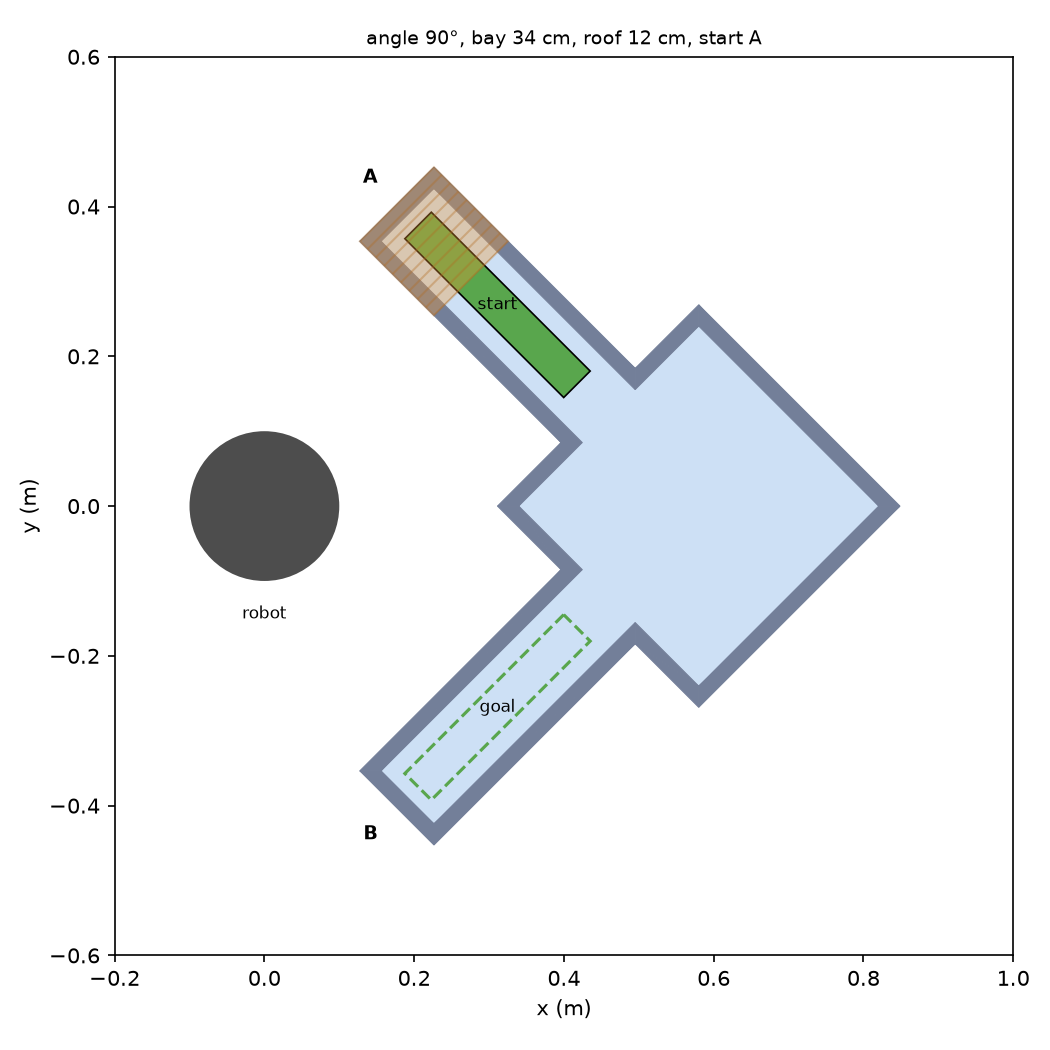
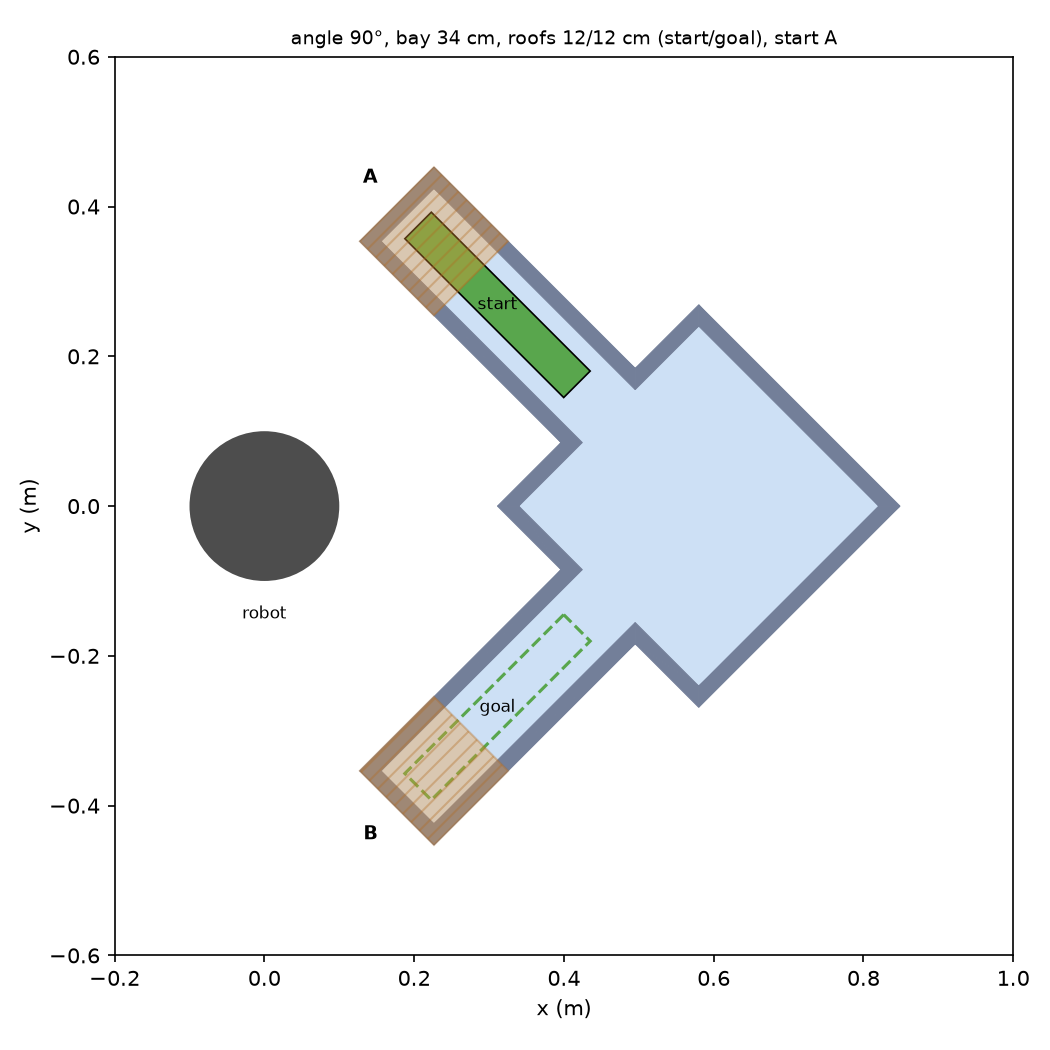
Add a randomized roof over the goal pocket
The goal corridor's dead end now gets its own roof, like the start
pocket. Its length is drawn independently of the start roof, with the
same limit: at least 10 cm of the block always stays uncovered so a
grasp is possible when setting the block down.

Changed region(s): [[0.3352, 0.6705, 0.4876, 0.8229], [0.2743, 0.0305, 0.7924, 0.061]]

diff --git a/environment/environment_params.py b/environment/environment_params.py
@@ -11,7 +11,7 @@ by a square "bay" at the corner. Seen from above:
 
                  corridor B
        dead end ┌──────────────────┬──────────┐
-                │  (block goal)        bay    │
+                │░░░░░ (block goal)    bay    │
                 └──────────────────┐          │
                                    └──┐    ┌──┘
                                       │    │
@@ -69,11 +69,13 @@ class EnvironmentParams:
     wall_height: float = 0.08
     wall_thickness: float = 0.02
 
-    # How much of the START corridor is covered by a roof, measured from its
-    # dead end. The roof sits on top of the walls, so the gripper cannot
-    # reach the part of the block underneath it. This limits which grasps
-    # are possible at the start. 0 means no roof.
+    # How much of the START and GOAL corridors is covered by a roof, measured
+    # from each corridor's dead end. A roof sits on top of the walls, so the
+    # gripper cannot reach the part of the block underneath it. This limits
+    # which grasps are possible when picking the block up at the start and
+    # when setting it down at the goal. 0 means no roof.
     start_roof_length: float = 0.12
+    goal_roof_length: float = 0.12
     roof_thickness: float = 0.01
 
     # ------------------------------------------------------------------
@@ -93,7 +95,7 @@ class EnvironmentParams:
     # just lift the block out of the corridor.
     max_block_lift: float = 0.02
 
-    # The roof must leave at least this much of the block uncovered so that
+    # Each roof must leave at least this much of the block uncovered so that
     # some grasp is always possible. (The WSG palm is 7.25 cm long in this
     # direction, plus some margin.)
     min_uncovered_block_length: float = 0.10
@@ -115,9 +117,9 @@ class EnvironmentParams:
     def goal_corridor(self) -> str:
         return "B" if self.start_corridor == "A" else "A"
 
-    def max_start_roof_length(self) -> float:
-        """Longest start roof that still leaves `min_uncovered_block_length`
-        of the block exposed for grasping."""
+    def max_roof_length(self) -> float:
+        """Longest roof (start or goal) that still leaves
+        `min_uncovered_block_length` of the block exposed for grasping."""
         return (self.block_gap_to_dead_end
                 + self.block_length
                 - self.min_uncovered_block_length)
@@ -133,9 +135,12 @@ class EnvironmentParams:
              "start_corridor must be 'A' or 'B'"),
             (0 < self.corner_angle_deg <= 180,
              "corner_angle_deg must be between 0 and 180"),
-            (0 <= self.start_roof_length <= self.max_start_roof_length(),
+            (0 <= self.start_roof_length <= self.max_roof_length(),
              f"start_roof_length must be between 0 and "
-             f"{self.max_start_roof_length():.3f} m, so a grasp stays possible"),
+             f"{self.max_roof_length():.3f} m, so a grasp stays possible"),
+            (0 <= self.goal_roof_length <= self.max_roof_length(),
+             f"goal_roof_length must be between 0 and "
+             f"{self.max_roof_length():.3f} m, so a grasp stays possible"),
         ]
         for is_ok, message in checks:
             if not is_ok:
@@ -146,7 +151,7 @@ class EnvironmentParams:
 # Randomized environments
 # ----------------------------------------------------------------------
 # Ranges for the randomized variables listed in the proposal:
-#   1. roof cover at the start, and the bay size
+#   1. roof cover at the start and goal, and the bay size
 #   2. the corner angle
 #   3. which corridor the block starts in
 BAY_SIZE_RANGE = (0.30, 0.42)       # meters
@@ -161,7 +166,8 @@ def sample_random_params(seed=None) -> EnvironmentParams:
     params.bay_size = rng.uniform(*BAY_SIZE_RANGE)
     params.corner_angle_deg = rng.uniform(*CORNER_ANGLE_RANGE)
     params.start_corridor = str(rng.choice(["A", "B"]))
-    params.start_roof_length = rng.uniform(0.0, params.max_start_roof_length())
+    params.start_roof_length = rng.uniform(0.0, params.max_roof_length())
+    params.goal_roof_length = rng.uniform(0.0, params.max_roof_length())
 
     params.validate()
     return params

diff --git a/environment/maze_layout.py b/environment/maze_layout.py
@@ -6,7 +6,7 @@ What's on the floor plan:
                  (rectangles, `Rect`)
   - walls      : built automatically around the outline of the open areas
                  (triangles, see `make_walls_around`)
-  - roofs      : covered parts of a corridor (rectangles)
+  - roofs      : covered dead ends of the start and goal corridors (rectangles)
   - the block's footprint at the start and at the goal (rectangles)
 
 Nothing here depends on Drake, so the layout can be checked with plain Python
@@ -62,7 +62,7 @@ class MazeLayout:
 
     open_areas: dict   # name -> Rect   (e.g. "bay", "corridor_A")
     walls: dict        # name -> (3, 2) array of triangle corners (e.g. "wall_00")
-    roofs: dict        # name -> Rect   (e.g. "start_roof")
+    roofs: dict        # name -> Rect   ("start_roof", "goal_roof")
 
     # All open areas merged into one shape. Handy for quick 2D checks,
     # e.g. `layout.open_space.contains(block_footprint.as_polygon())`.
@@ -124,10 +124,14 @@ def make_two_segment_layout(params: EnvironmentParams) -> MazeLayout:
         if not open_space.contains(block.as_polygon()):
             raise ValueError(f"The block's {label} position overlaps a wall.")
 
-    # --- Roof over the dead end of the start corridor ---
+    # --- Roofs over the dead ends of the start and goal corridors ---
     roofs = {}
     if params.start_roof_length > 0:
-        roofs["start_roof"] = roof_over_pocket(bay_center, start_heading, params)
+        roofs["start_roof"] = roof_over_pocket(
+            bay_center, start_heading, params.start_roof_length, params)
+    if params.goal_roof_length > 0:
+        roofs["goal_roof"] = roof_over_pocket(
+            bay_center, goal_heading, params.goal_roof_length, params)
 
     return MazeLayout(
         params=params,
@@ -154,13 +158,14 @@ def block_in_pocket(bay_center, heading, params: EnvironmentParams) -> Rect:
     )
 
 
-def roof_over_pocket(bay_center, heading, params: EnvironmentParams) -> Rect:
-    """Roof covering the last `start_roof_length` of a corridor.
+def roof_over_pocket(bay_center, heading, covered_length,
+                     params: EnvironmentParams) -> Rect:
+    """Roof covering the last `covered_length` of a corridor.
 
     It is wide enough to rest on both side walls, and long enough to also
     cover the dead-end wall.
     """
-    roof_length = params.start_roof_length + params.wall_thickness
+    roof_length = covered_length + params.wall_thickness
     # The roof's far edge lines up with the outside of the dead-end wall.
     far_edge = params.corridor_length + params.wall_thickness
     return Rect(

diff --git a/environment/drake_environment.py b/environment/drake_environment.py
@@ -1,5 +1,5 @@
 """
-Adds the environment (floor, walls, roof, block) to a Drake MultibodyPlant.
+Adds the environment (floor, walls, roofs, block) to a Drake MultibodyPlant.
 
 Typical use:
 
@@ -11,7 +11,7 @@ Typical use:
     # ... later: add the iiwa and gripper to the same plant here ...
     plant.Finalize()
 
-The floor, walls and roof are fixed to the world (they never move) and have
+The floor, walls and roofs are fixed to the world (they never move) and have
 collision geometry, so the robot's collision checks will see them. The block
 is a free body that starts at the start pose.
 """
@@ -62,7 +62,7 @@ BLOCK_MESH_SIZE = 0.01     # m; how finely Drake meshes the soft block internall
 
 
 def rigid_contact_properties() -> ProximityProperties:
-    """For fixed scenery: floor, walls, roof."""
+    """For fixed scenery: floor, walls, roofs."""
     properties = ProximityProperties()
     AddContactMaterial(dissipation=CONTACT_DAMPING, friction=FRICTION, properties=properties)
     AddRigidHydroelasticProperties(properties=properties)

diff --git a/environment/show_in_meshcat.py b/environment/show_in_meshcat.py
@@ -74,6 +74,7 @@ def print_summary(layout):
     print(f"  bay size          : {p.bay_size:.3f} m")
     print(f"  corridor width    : {p.corridor_width:.3f} m")
     print(f"  start roof length : {p.start_roof_length:.3f} m")
+    print(f"  goal roof length  : {p.goal_roof_length:.3f} m")
     print(f"  block starts in   : corridor {p.start_corridor}, "
           f"goal is corridor {p.goal_corridor()}")
     print(f"  wall pieces       : {len(layout.walls)}")

diff --git a/environment/plot_top_down.py b/environment/plot_top_down.py
@@ -63,7 +63,8 @@ def draw_layout(ax, layout, title=""):
 
 def title_for(params, prefix=""):
     return (f"{prefix}angle {params.corner_angle_deg:.0f}°, bay {params.bay_size * 100:.0f} cm, "
-            f"roof {params.start_roof_length * 100:.0f} cm, start {params.start_corridor}")
+            f"roofs {params.start_roof_length * 100:.0f}/{params.goal_roof_length * 100:.0f} cm "
+            f"(start/goal), start {params.start_corridor}")
 
 
 def main():

diff --git a/environment/README.md b/environment/README.md
@@ -34,8 +34,8 @@ moved. It should be 0.00 mm. A big jump would mean the block started inside a wa
 
 | File | What it does |
 |---|---|
-| `environment_params.py` | **Every number** (block, corridors, bay, walls, roof, placement) in one dataclass, plus `sample_random_params(seed)` for randomized environments. |
-| `maze_layout.py` | Turns the params into a 2D floor plan of named shapes: open areas, walls, roof, block start/goal. No Drake here. |
+| `environment_params.py` | **Every number** (block, corridors, bay, walls, roofs, placement) in one dataclass, plus `sample_random_params(seed)` for randomized environments. |
+| `maze_layout.py` | Turns the params into a 2D floor plan of named shapes: open areas, walls, roofs, block start/goal. No Drake here. |
 | `drake_environment.py` | `add_environment_to_plant(plant, layout)`: adds the floor plan to a Drake `MultibodyPlant` as 3D collision + visual geometry. |
 | `show_in_meshcat.py` | Opens the environment in Drake's 3D viewer. |
 | `plot_top_down.py` | Draws the floor plan from above, like the proposal figures. |
@@ -70,8 +70,9 @@ env.layout.corridor_heading  # {"A": angle, "B": angle}, from bay center toward 
    Drake collision shapes must be convex, so the ring is cut into triangles. Each
    triangle becomes a 3-sided prism. This works for any corner angle and any number
    of corridors, so composed mazes (proposal Fig 2) can reuse it.
-3. **Roof** over the dead end of the start corridor, resting on the wall tops, so the
-   gripper can't reach the covered part of the block.
+3. **Roofs** over the dead ends of both the start and the goal corridor, resting on
+   the wall tops, so the gripper can't reach the covered part of the block when
+   picking it up or setting it down.
 4. **Block** is a free body lying in the start pocket. A see-through green "ghost"
    shows the goal.
 
@@ -83,6 +84,7 @@ Both corridors open back toward the robot.
 | Variable | Range |
 |---|---|
 | Start roof length | 0 to 22 cm (always leaves ≥ 10 cm of block uncovered so a grasp exists) |
+| Goal roof length | 0 to 22 cm, drawn separately from the start roof (same limit) |
 | Bay size | 30–42 cm |
 | Corner angle | 60–150° (below ~60° the two corridors start to merge) |
 | Start corridor | A or B |
